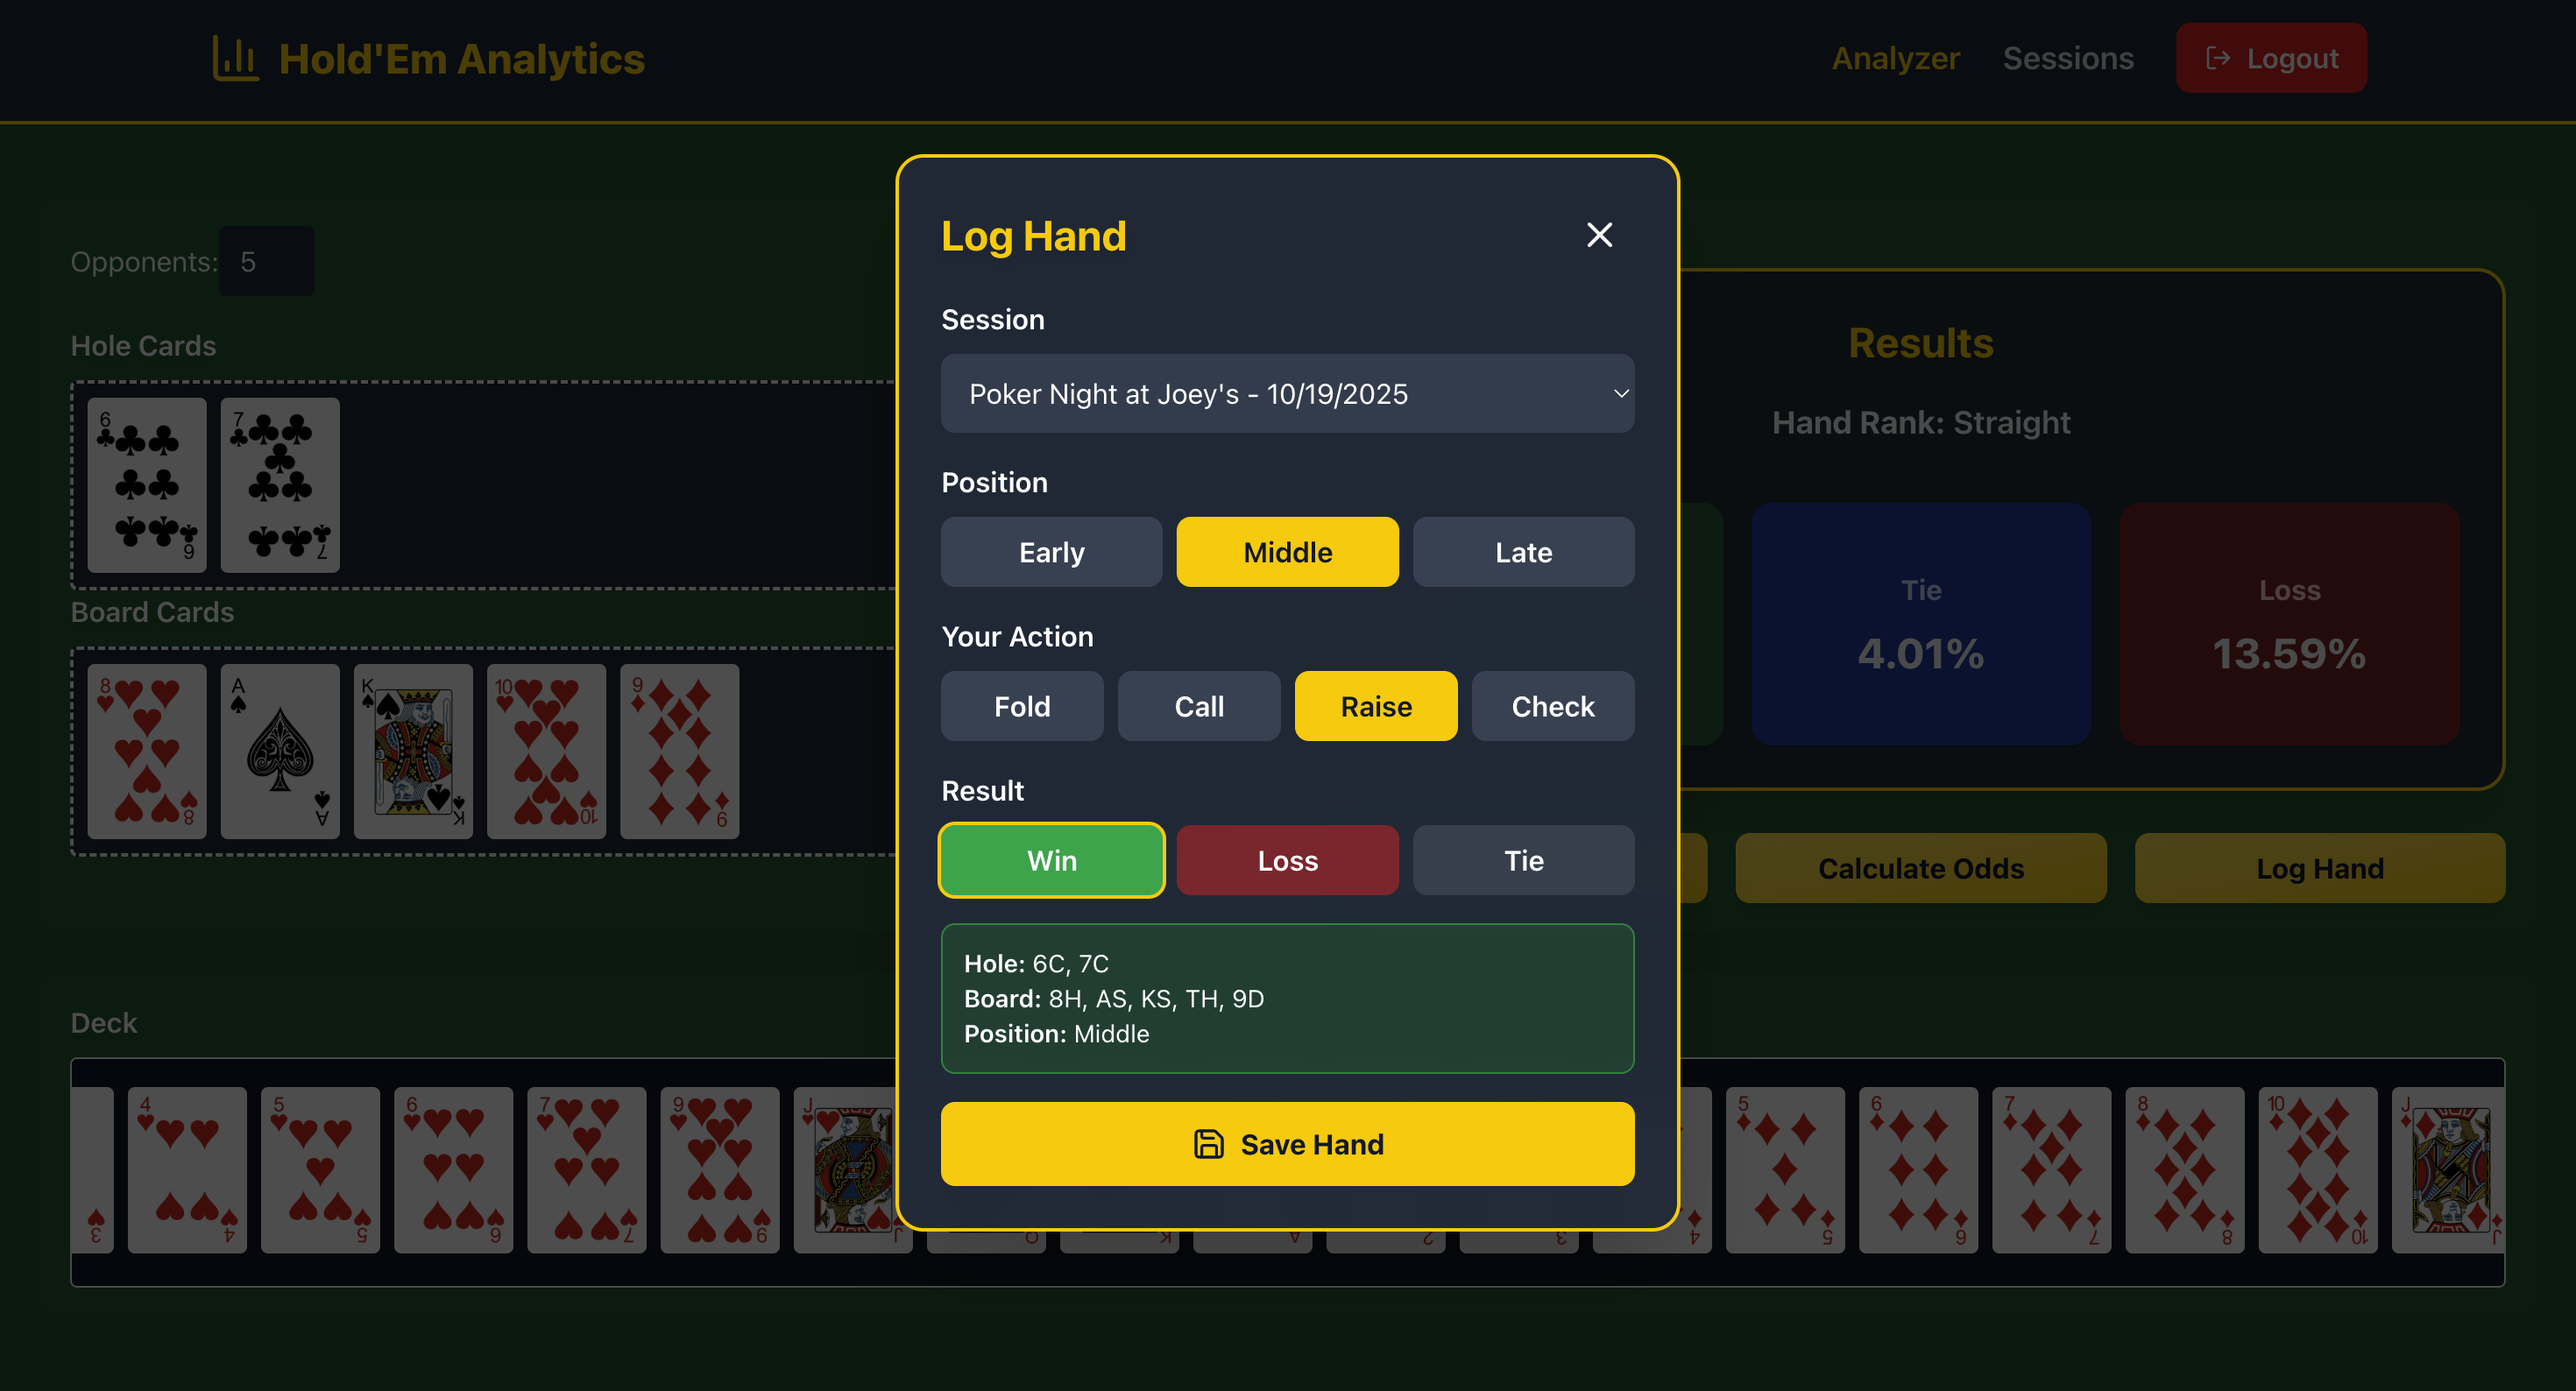
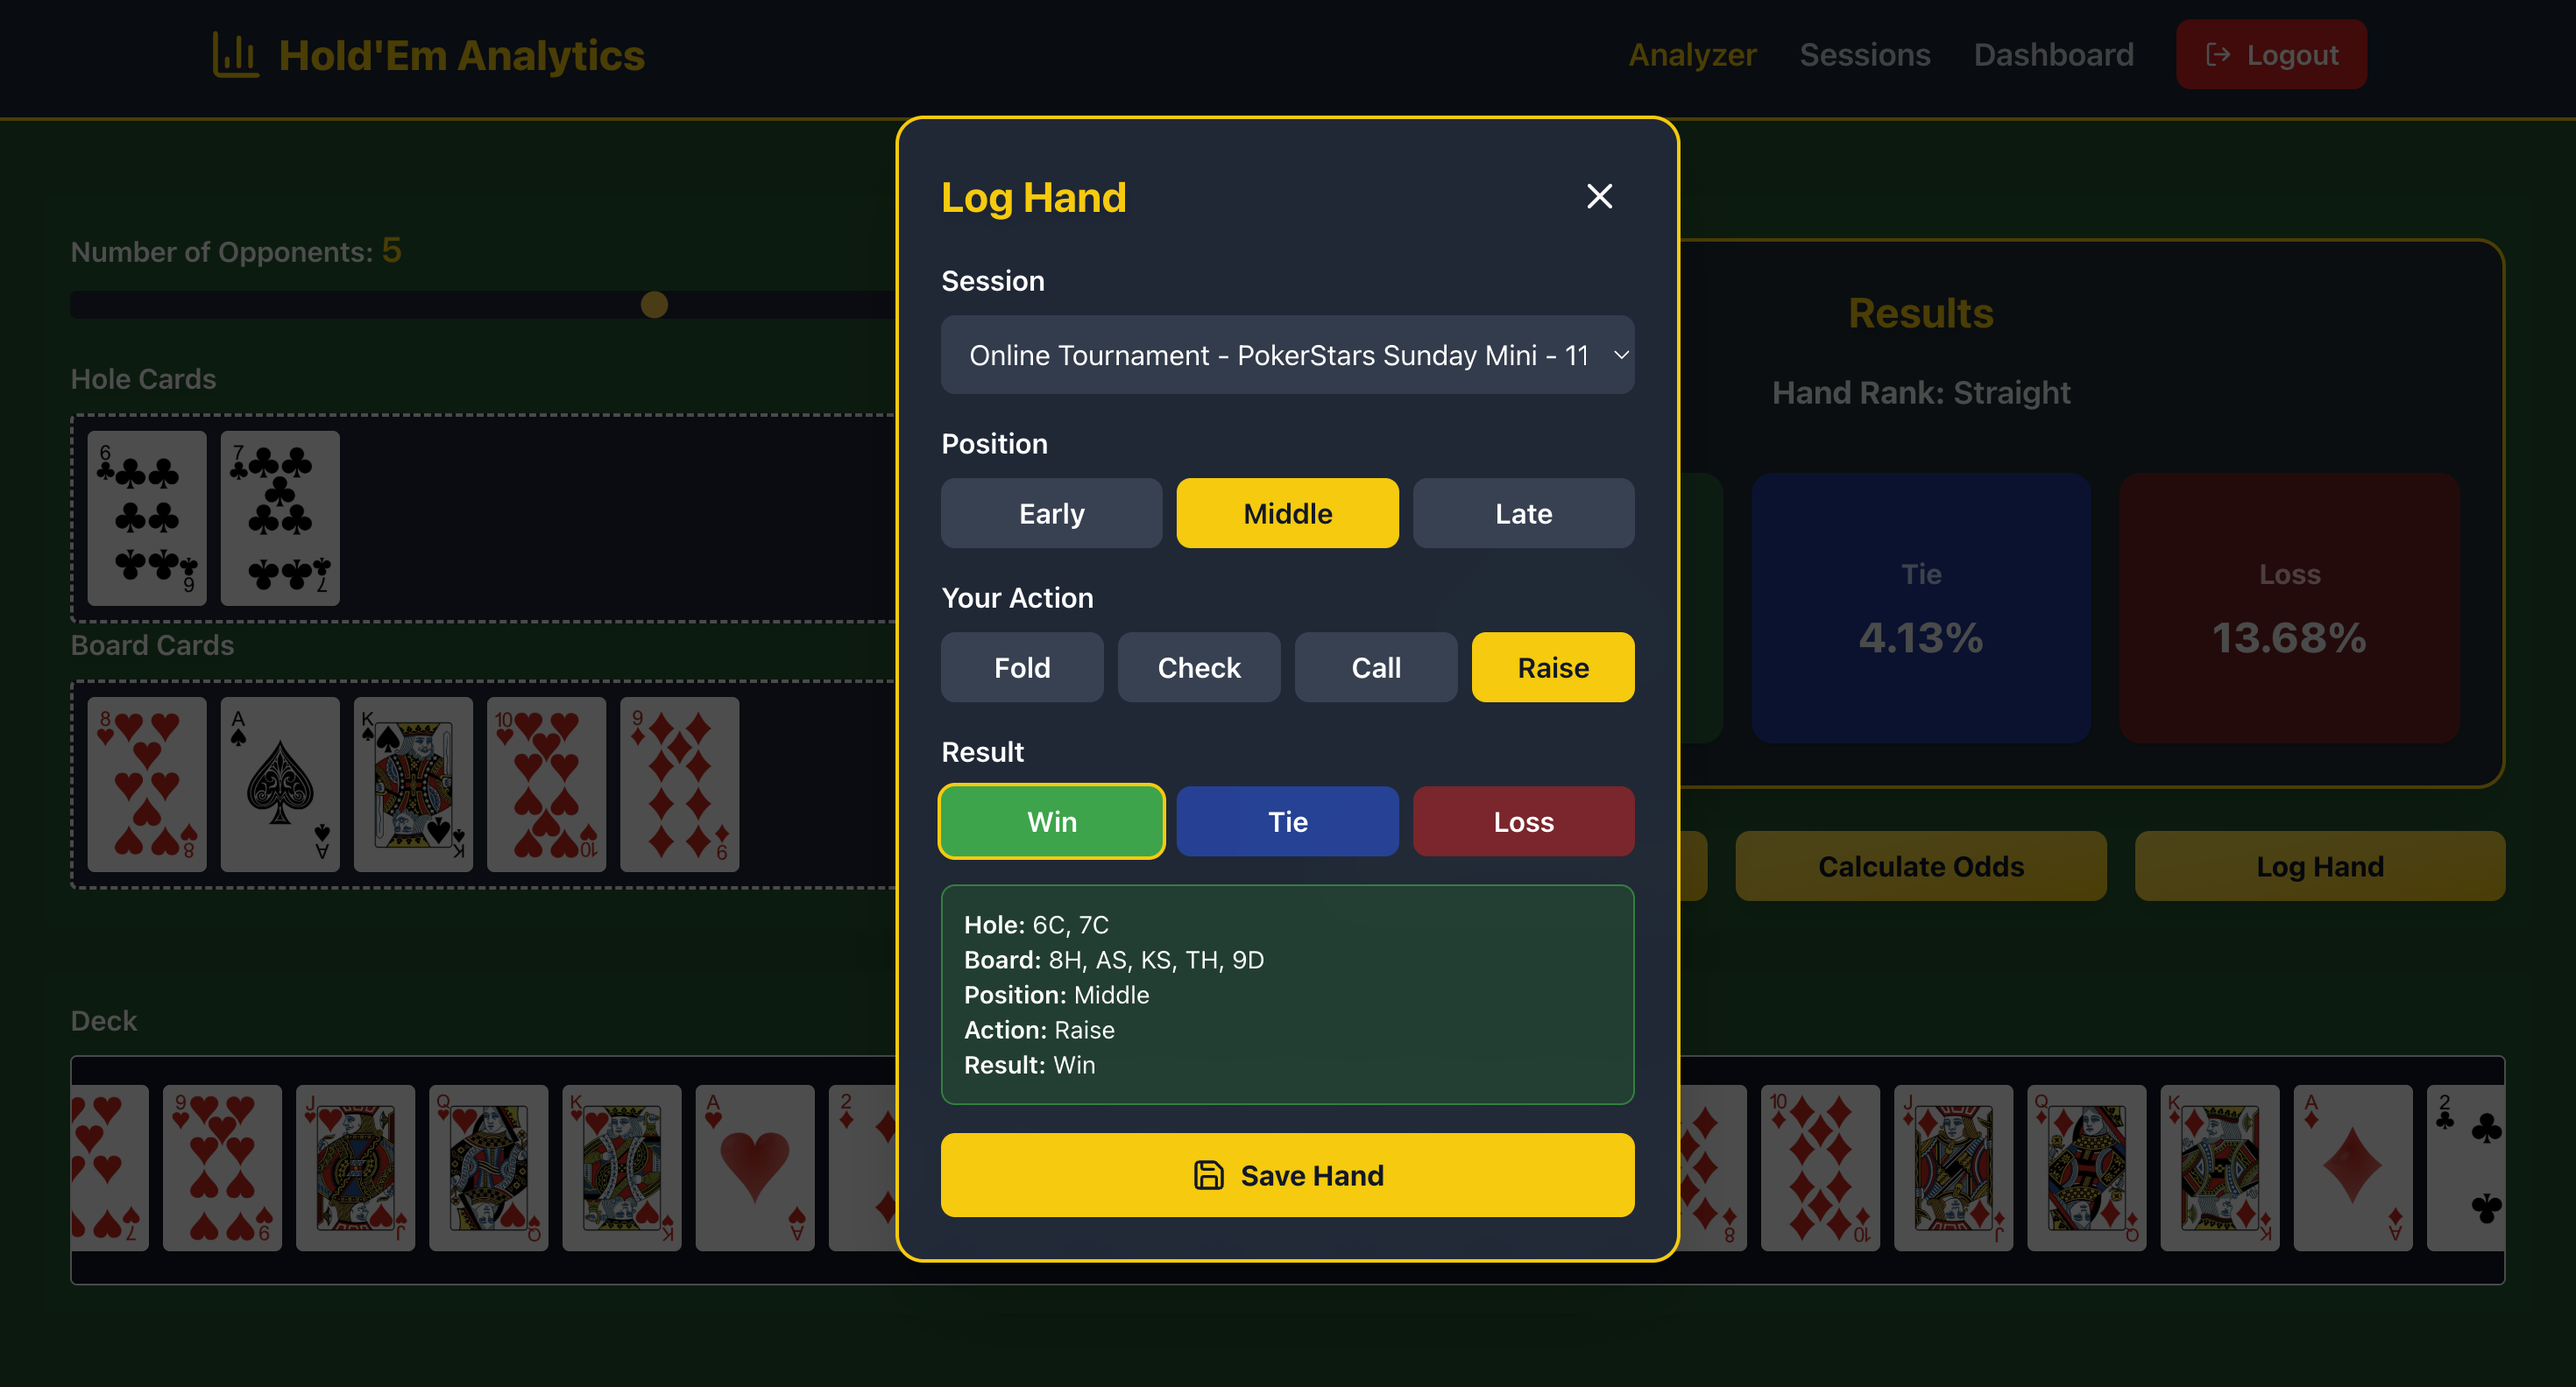
feat: update README with new analytics features

diff --git a/README.md b/README.md
@@ -2,25 +2,62 @@
 
 A poker analytics platform for hand evaluation, odds calculation, and session tracking.
 
-![Main Page](assets/main-page.png)
-
-![Hand Logger](assets/hand-logger.png)
+![Main Page](assets/analyzer-page.png)
 
 ![Sessions Page](assets/sessions-page.png)
 
+![Dashboard](assets/dashboard-page.png)
+
+
 ## Features
-- **Interactive Card Interface:** Drag-and-drop cards to simulate poker hands  
-- **Hand Evaluator:** Instant hand strength analysis  
-- **Odds Calculator:** Monte Carlo simulation for win/tie/loss probabilities against 1–9 opponents  
-- **User Authentication:** Secure JWT-based login and registration  
-- **Session Management:** Log and track hands with position, action, and result data  
-- **Hand History:** Review past hands organized by session  
+
+### Interactive Gameplay
+- **Interactive Card Interface:** Drag-and-drop cards to simulate real poker hands  
+- **Hand Evaluator:** Instant hand strength calculation (Texas Hold’em)  
+- **Odds Calculator:** Monte Carlo simulation to calculate win/tie/loss probabilities against 1–9 opponents  
+
+### User & Session Management
+- **User Authentication:** Secure JWT-based login and registration with password hashing (bcrypt)  
+- **Session Management:** Log and track hands including **hole cards, board cards, position, action, and result**  
+- **Hand History:** Review past hands organized by session with sortable/filterable tables  
+
+### Analytics Dashboard
+- **AnalyticsService:** Complete analytics engine with 10+ statistical methods  
+- **Protected Analytics Routes:** 8 FastAPI endpoints for fetching analytics data securely  
+- **Dashboard Visualizations:**
+  - **StatsCards:** 4 metric cards showing Win Rate, Hands Played, VPIP, Aggression Factor  
+  - **WinRateChart:** Line chart tracking win rate over time  
+  - **PositionChart:** Bar chart showing win rate by position (early/middle/late)  
+  - **ActionChart:** Pie chart showing action distribution (fold/check/call/raise)  
+  - **StyleProfile:** Playing style analysis with derived metrics  
+  - **SessionTable:** Performance of recent sessions  
+
+### Statistics Tracked
+- Win Rate, VPIP, Aggression Factor  
+- Position Analysis (early/middle/late)  
+- Action Patterns (fold/check/call/raise)  
+- Win Rate Over Time  
+- Session Performance  
+- Playing Style Profile  
+
 
 ## Tech Stack
-- **Frontend:** Next.js, React, TypeScript, Tailwind CSS  
-- **Backend:** FastAPI, SQLModel, PostgreSQL  
-- **Authentication:** JWT with bcrypt  
-- **Containerization:** Docker  
+
+### Frontend
+- Next.js + React + TypeScript  
+- Tailwind CSS for responsive UI  
+- Interactive charts: Recharts
+
+### Backend
+- Python + FastAPI + SQLModel  
+- PostgreSQL database  
+- JWT-based authentication with bcrypt for password security  
+- AnalyticsService: Comprehensive statistical engine  
+
+### Containerization
+- Dockerized for easy deployment  
+
+
 
 ## Running the Project
 
